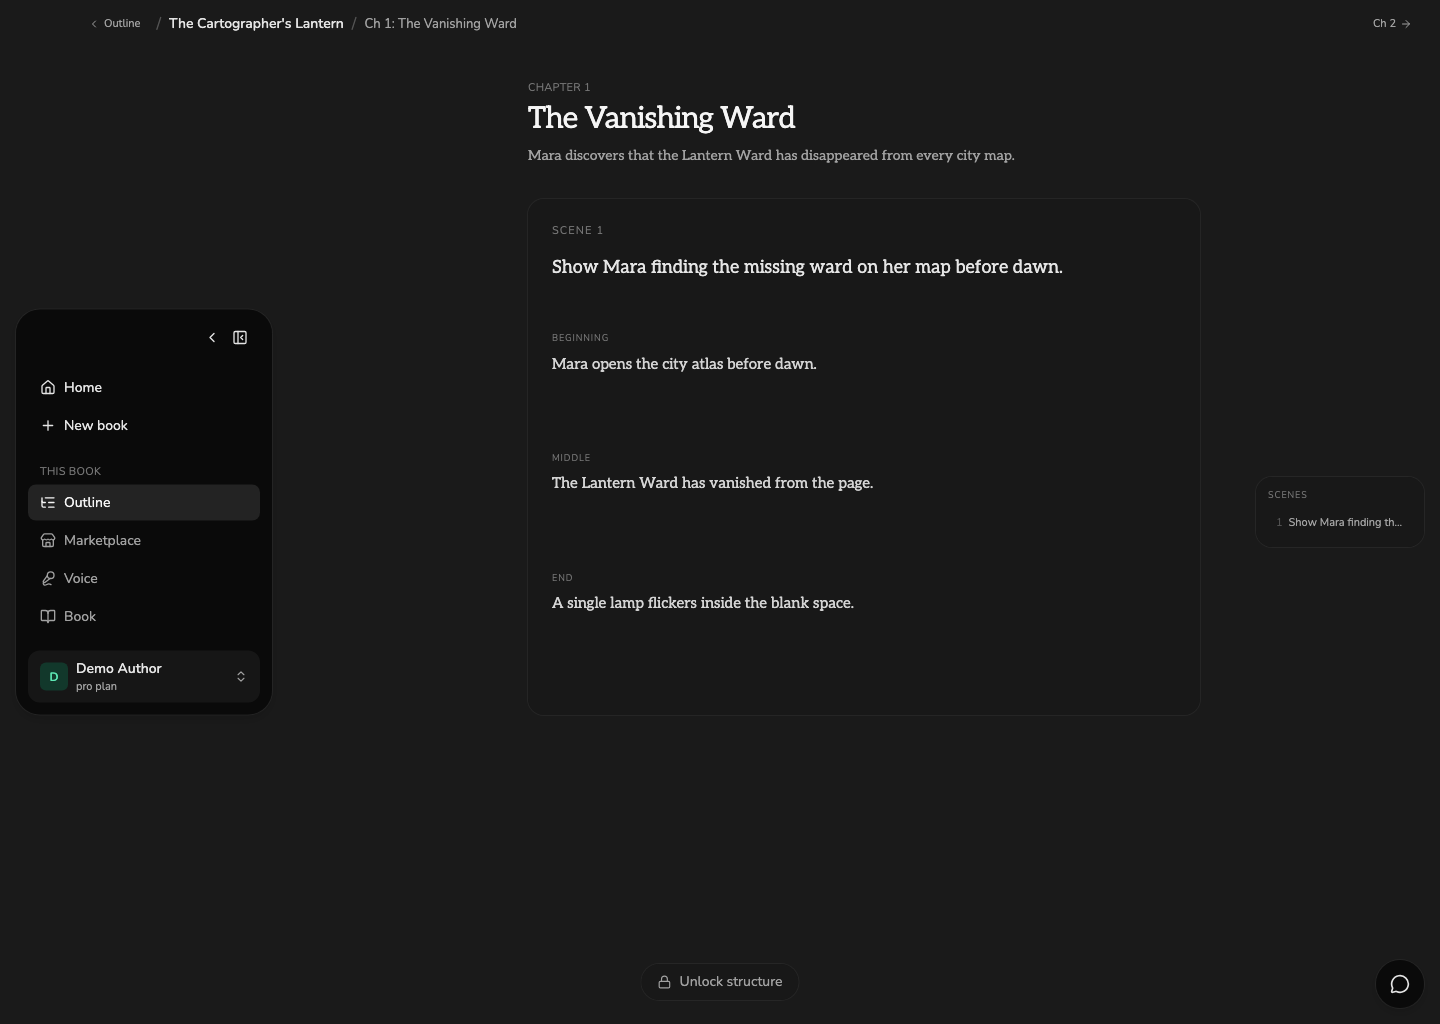
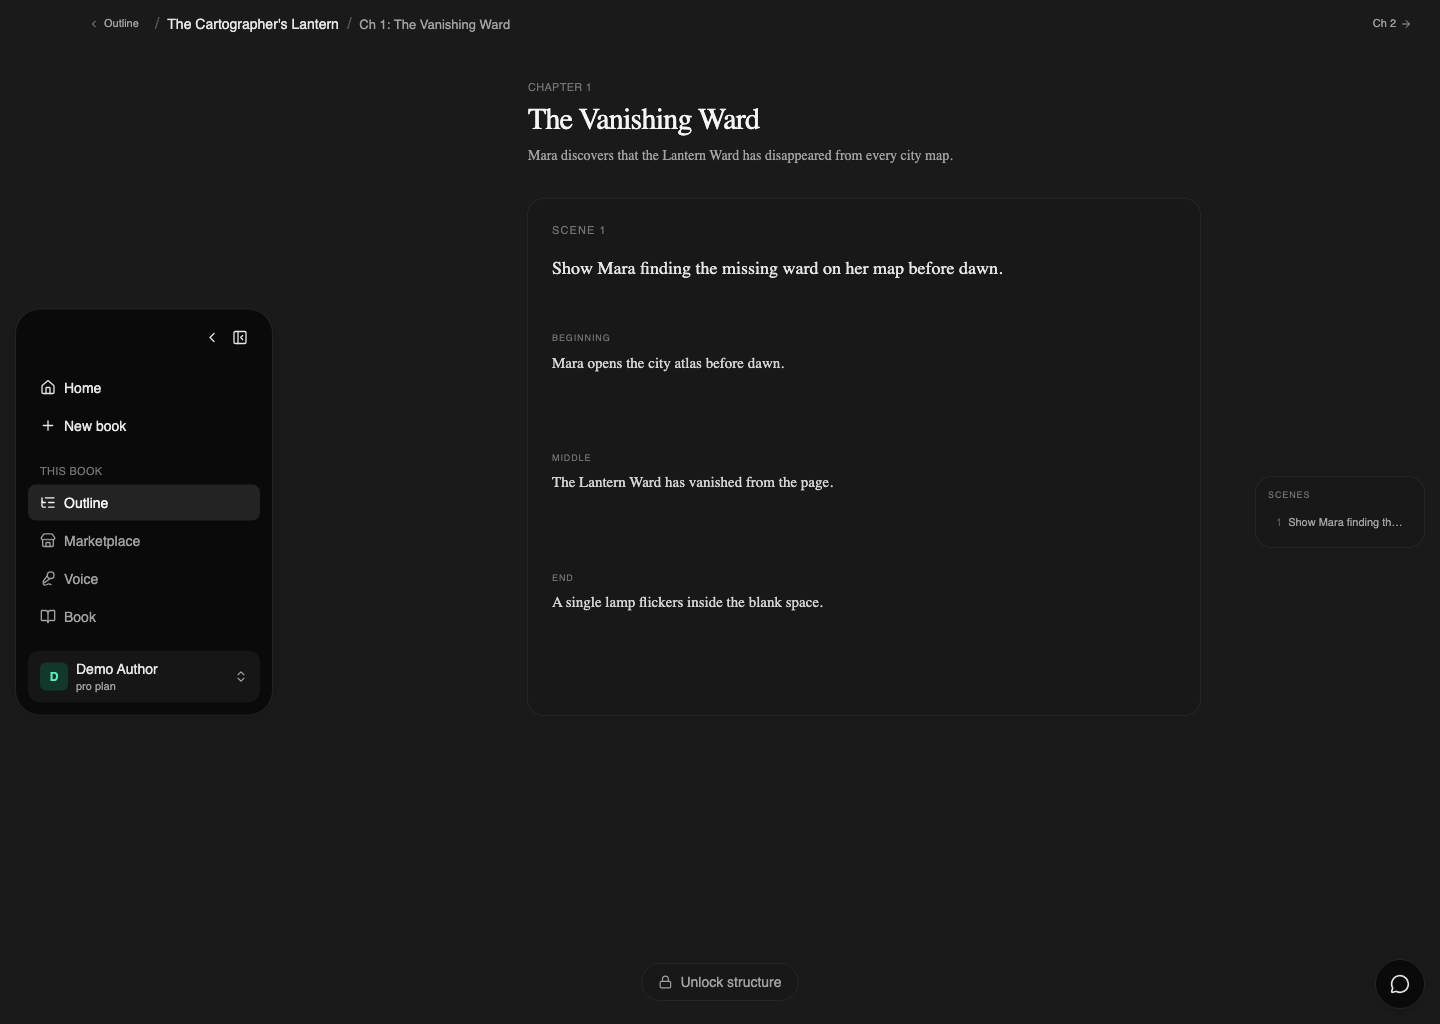
fix: guard deterministic Studio captures

diff --git a/studio/tests/e2e/demo-capture.spec.ts b/studio/tests/e2e/demo-capture.spec.ts
@@ -26,6 +26,7 @@ test.use({
 
 const FIXED_NOW = 1_735_689_600_000;
 const LOCAL_BASE_URL = "http://localhost:4190";
+const LOCAL_ORIGIN = new URL(LOCAL_BASE_URL).origin;
 
 test("captures deterministic Studio source screens", async ({ page }) => {
   if (process.env.E2E_BASE_URL !== LOCAL_BASE_URL) {
@@ -37,7 +38,23 @@ test("captures deterministic Studio source screens", async ({ page }) => {
     throw new Error("DEMO_CAPTURE_DIR must be an absolute path");
   }
 
+  const blockedExternalRequests: string[] = [];
   const unknownRequests: string[] = [];
+  await page.route("**/*", async (route) => {
+    const request = route.request();
+    const url = new URL(request.url());
+    if (url.pathname.startsWith("/api/v1/")) {
+      await route.fallback();
+      return;
+    }
+    if (url.origin === LOCAL_ORIGIN) {
+      await route.continue();
+      return;
+    }
+    blockedExternalRequests.push(`${request.method()} ${url.href}`);
+    await route.abort("blockedbyclient");
+  });
+
   await page.route("**/api/v1/**", async (route) => {
     const request = route.request();
     const pathname = new URL(request.url()).pathname;
@@ -70,9 +87,14 @@ test("captures deterministic Studio source screens", async ({ page }) => {
 
     await expect(page.getByText(expected).first()).toBeVisible();
     await page.evaluate(() => document.fonts.ready);
+    await expect.poll(() => page.evaluate(() => document.fonts.status)).toBe("loaded");
     await page.screenshot({ path: join(captureDir, filename), animations: "disabled" });
   }
 
+  expect(blockedExternalRequests).toHaveLength(CAPTURES.length);
+  for (const request of blockedExternalRequests) {
+    expect(request).toMatch(/^GET https:\/\/fonts\.googleapis\.com\/css2\?/);
+  }
   expect(unknownRequests).toEqual([]);
 });
 
